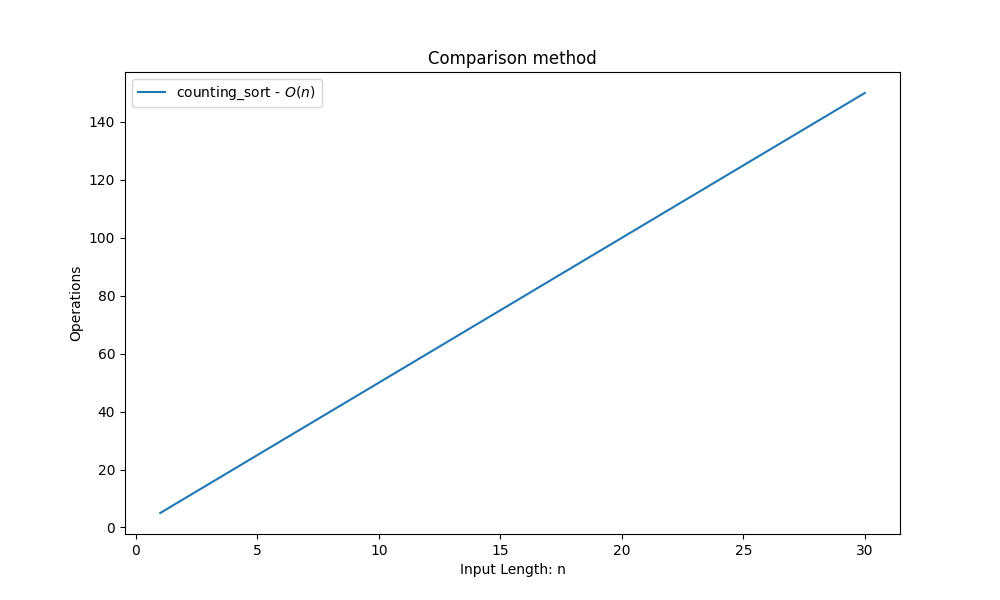
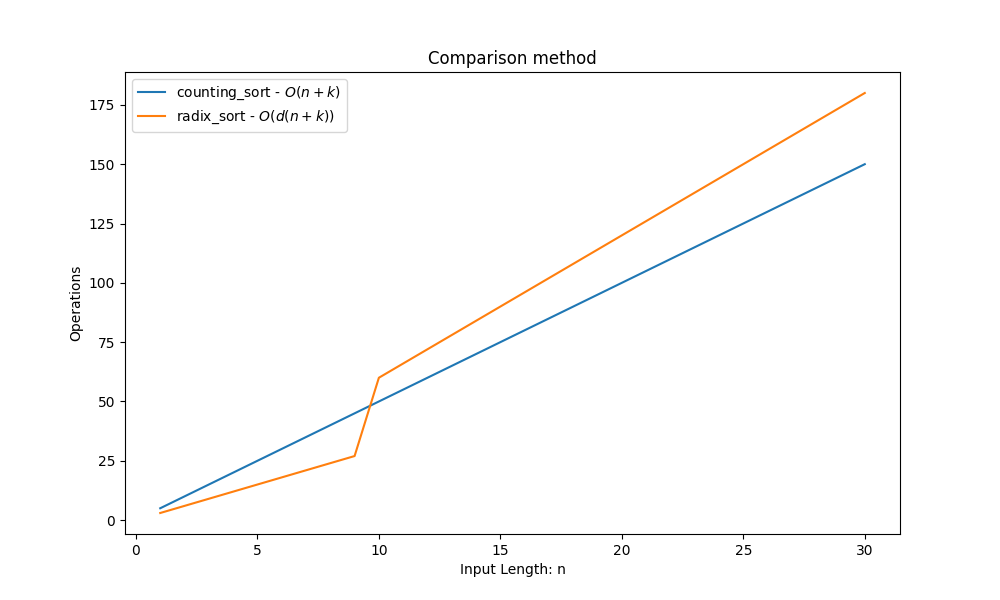
radix_sort

diff --git a/LinearSorting/algorithms/radix_sort.py b/LinearSorting/algorithms/radix_sort.py
@@ -1,0 +1,33 @@
+def counting_sort(arr, exp1): 
+   
+    n = len(arr) 
+
+    output = [0] * (n) 
+    count = [0] * (10) 
+   
+    for i in range(0, n): 
+        index = (arr[i]/exp1) 
+        count[int((index)%10)] += 1
+   
+    
+    for i in range(1,10): 
+        count[i] += count[i-1] 
+   
+    i = n-1
+    while i>=0: 
+        index = (arr[i]/exp1) 
+        output[ count[ int((index)%10) ] - 1] = arr[i] 
+        count[int((index)%10)] -= 1
+        i -= 1
+
+    i = 0
+    for i in range(0,len(arr)): 
+        arr[i] = output[i] 
+
+
+def radix_sort(A: list[int]):
+    max1 = max(A)
+    exp = 1
+    while max1 // exp > 0:
+        counting_sort(A, exp)
+        exp *= 10

diff --git a/LinearSorting/algorithms/counting_sort.py b/LinearSorting/algorithms/counting_sort.py
@@ -1,7 +1,6 @@
 def counting_sort(A: list[int], k: int):
     B = [0]*len(A)
     C = [0]*(k+1)
-
     for j in range(len(A)):
         C[A[j]] += 1
 
@@ -13,7 +12,3 @@ def counting_sort(A: list[int], k: int):
         C[A[x]] = C[A[x]] - 1
 
     return B
-
-A = [0, 2, 1, 3, 1, 1, 1]
-B = counting_sort(A, 3)
-print(B)

diff --git a/LinearSorting/README.md b/LinearSorting/README.md
@@ -8,6 +8,15 @@ README writed by: [MARKPLATE](https://github.com/cecinuga/markplate)
 **Counting Sort - $\ O(n)$**
 ----------------------------
 
+**Radix Sort - $\ O(None)$**
+----------------------------
+
+**Counting Sort - $\ O(n)$**
+----------------------------
+
+**Radix Sort - $\ O(None)$**
+----------------------------
+
 ![](./source/linearsorting_complexity.png)Complexity Analysis
   
 
